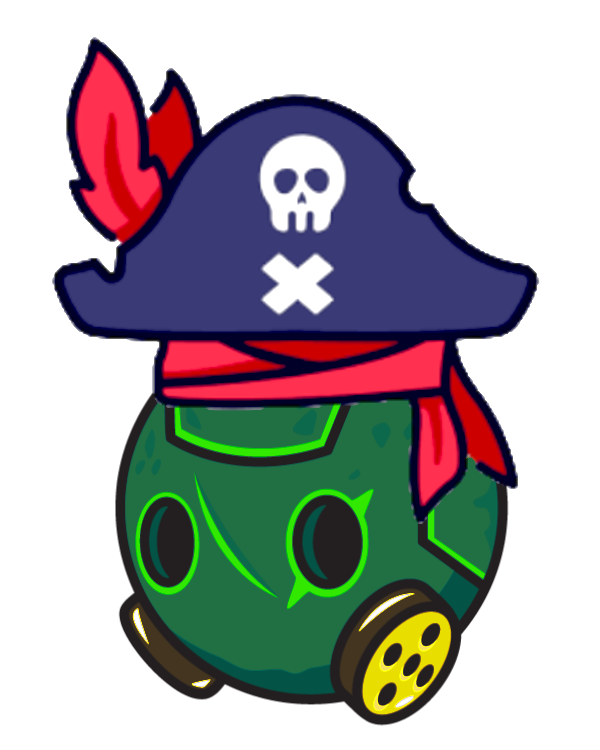
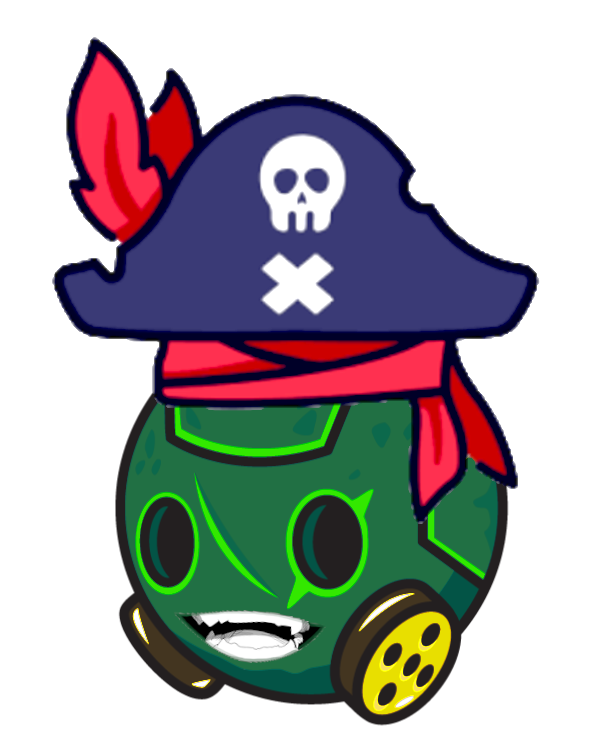
new file:   ../_static/guayhackito-pink-left.png renamed:    ../_static/guayhackito-pink.png -> ../_static/guayhackito-pink-right.png modified:   ../_static/guayhackito-pirate.png new file:   ../_static/guayhackito-smile.png new file:   ../_static/guayhackito-sombrero-flying-yellow-smile.png deleted

Changed region(s): [[0.3, 0.7973, 0.54, 0.8893]]

diff --git a/site/wiki/evento-2024-01-12-guayacamp.md b/site/wiki/evento-2024-01-12-guayacamp.md
@@ -30,9 +30,9 @@ Esta página contiene toda la información esencial sobre GuayaCamp;(otros detal
 
 A fin de poder planear con exactitud y garantizar un espacio agradable, es de suma importancia que todos los asistentes se registren oportunamente.
 
-La fecha límite de registro y aportes monetarios para los amantes de la pizza es `Diciembre 1, 2023`. Igualmenente será posible registrarse y aportar el día del eveneto toda vez que haya espacio para más participantes.
+La fecha límite de registro y aportes monetarios para los amantes de la pizza es `Diciembre 1, 2023`. Igualmenente será posible registrarse y aportar el día del evento toda vez que haya espacio para más participantes.
 
-```{image} /_static/guayhackito-pink.png
+```{image} /_static/guayhackito-pink-right.png
 :alt: GuayHackito
 :class: bg-transparent
 :width: 11em
@@ -50,7 +50,7 @@ La fecha límite de registro y aportes monetarios para los amantes de la pizza e
   <a href="https://forms.gle/YLkTwczr4zgpbVUr8" style="font-size: 2rem; white-space: nowrap;">👉 Registro 👈</a>
 </p>
 
-```{image} /_static/guayhackito-sombrero-flying-yellow.png
+```{image} /_static/guayhackito-sombrero-flying-yellow-smile.png
 :alt: GuayHackito
 :class: bg-transparent
 :width: 10em
@@ -99,7 +99,7 @@ La agenda correspondiente al [calendario propio del evento ](https://calendar.go
 
 ## Organizadores 
 
-{doc}`@jdsalaro </community/member/jdsalaro/index>`, {doc}`@DavidQP </community/member/davidqp/index>`, {doc}`@harold </community/member/harold/index>`, {doc}`@davidadarme </community/member/davidadarme/index>`, {doc}`@camilo.java </community/member/camilo.java/index>`.
+{doc}`@jdsalaro </community/member/jdsalaro/index>`, {doc}`@Mcveigth </community/member/mcveigth/index>`, {doc}`@DavidQP </community/member/davidqp/index>`, {doc}`@davidadarme </community/member/davidadarme/index>`.
 
 
 ```{image} ./evento-2024-01-12-guayacamp.md-data/kite.png

diff --git a/site/wiki/evento-2024-01-12-guayacamp-en.md b/site/wiki/evento-2024-01-12-guayacamp-en.md
@@ -38,7 +38,7 @@ In order to ensure accurate planning and a pleasant space, it is of utmost impor
 
 The deadline for registration, and monetary contributions for pizza lovers, is `December 1, 2023`. Registration and contributions on the day of the event will be possible as long as there is space for more participants.
 
-```{image} /_static/guayhackito-pink.png
+```{image} /_static/guayhackito-pink-right.png
 :alt: GuayHackito
 :class: bg-transparent
 :width: 11em
@@ -56,7 +56,7 @@ The deadline for registration, and monetary contributions for pizza lovers, is `
   <a href="https://forms.gle/YLkTwczr4zgpbVUr8" style="font-size: 2rem; white-space: nowrap;">👉 Registro 👈</a>
 </p>
 
-```{image} /_static/guayhackito-sombrero-flying-yellow.png
+```{image} /_static/guayhackito-sombrero-flying-yellow-smile.png
 :alt: GuayHackito
 :class: bg-transparent
 :width: 10em
@@ -106,7 +106,7 @@ The agenda corresponding to the [event's own calendar](https://calendar.google.c
 
 ## Organizers 
 
-{doc}`@jdsalaro </community/member/jdsalaro/index>`, {doc}`@DavidQP </community/member/davidqp/index>`, {doc}`@harold </community/member/harold/index>`, {doc}`@davidadarme </community/member/davidadarme/index>`, {doc}`@camilo.java </community/member/camilo.java/index>`.
+{doc}`@jdsalaro </community/member/jdsalaro/index>`, {doc}`@Mcveigth </community/member/mcveigth/index>`, {doc}`@DavidQP </community/member/davidqp/index>`, {doc}`@davidadarme </community/member/davidadarme/index>`.
 
 
 ```{image} ./evento-2024-01-12-guayacamp.md-data/kite.png
